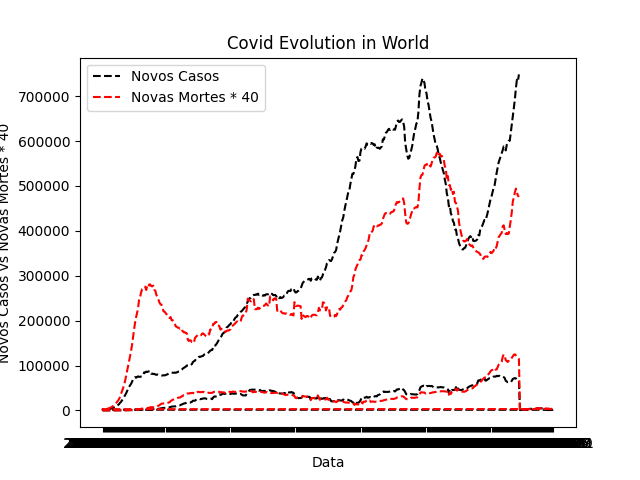
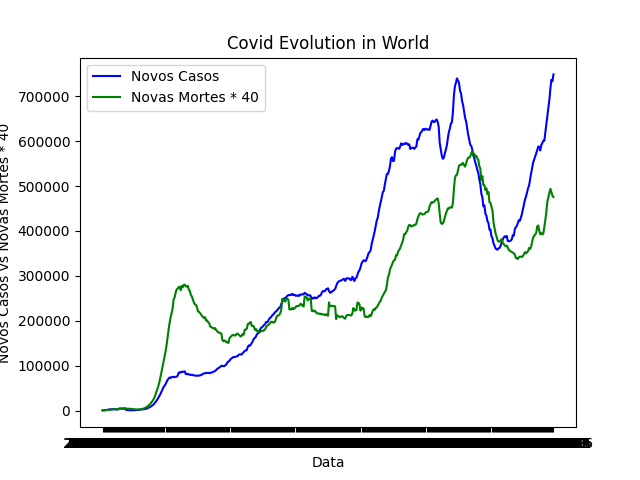
updated

diff --git a/gzt-lab-11.py b/gzt-lab-11.py
@@ -97,8 +97,9 @@ while repeat:
 
     print("Construindo o gráfico...")
 
-    plt.plot(x,yc, color="black", linestyle="--", label = "Novos Casos")
-    plt.plot(x,yd, color="red", linestyle="--" , label = "Novas Mortes * {}".format(norm_factor) )
+    plt.plot(x,yc, color="blue", label = "Novos Casos")
+    plt.plot(x,yd, color="green" , label = "Novas Mortes * {}".format(norm_factor) )
+
 
     plt.legend()
     plt.title("Covid Evolution in {}".format(local))
